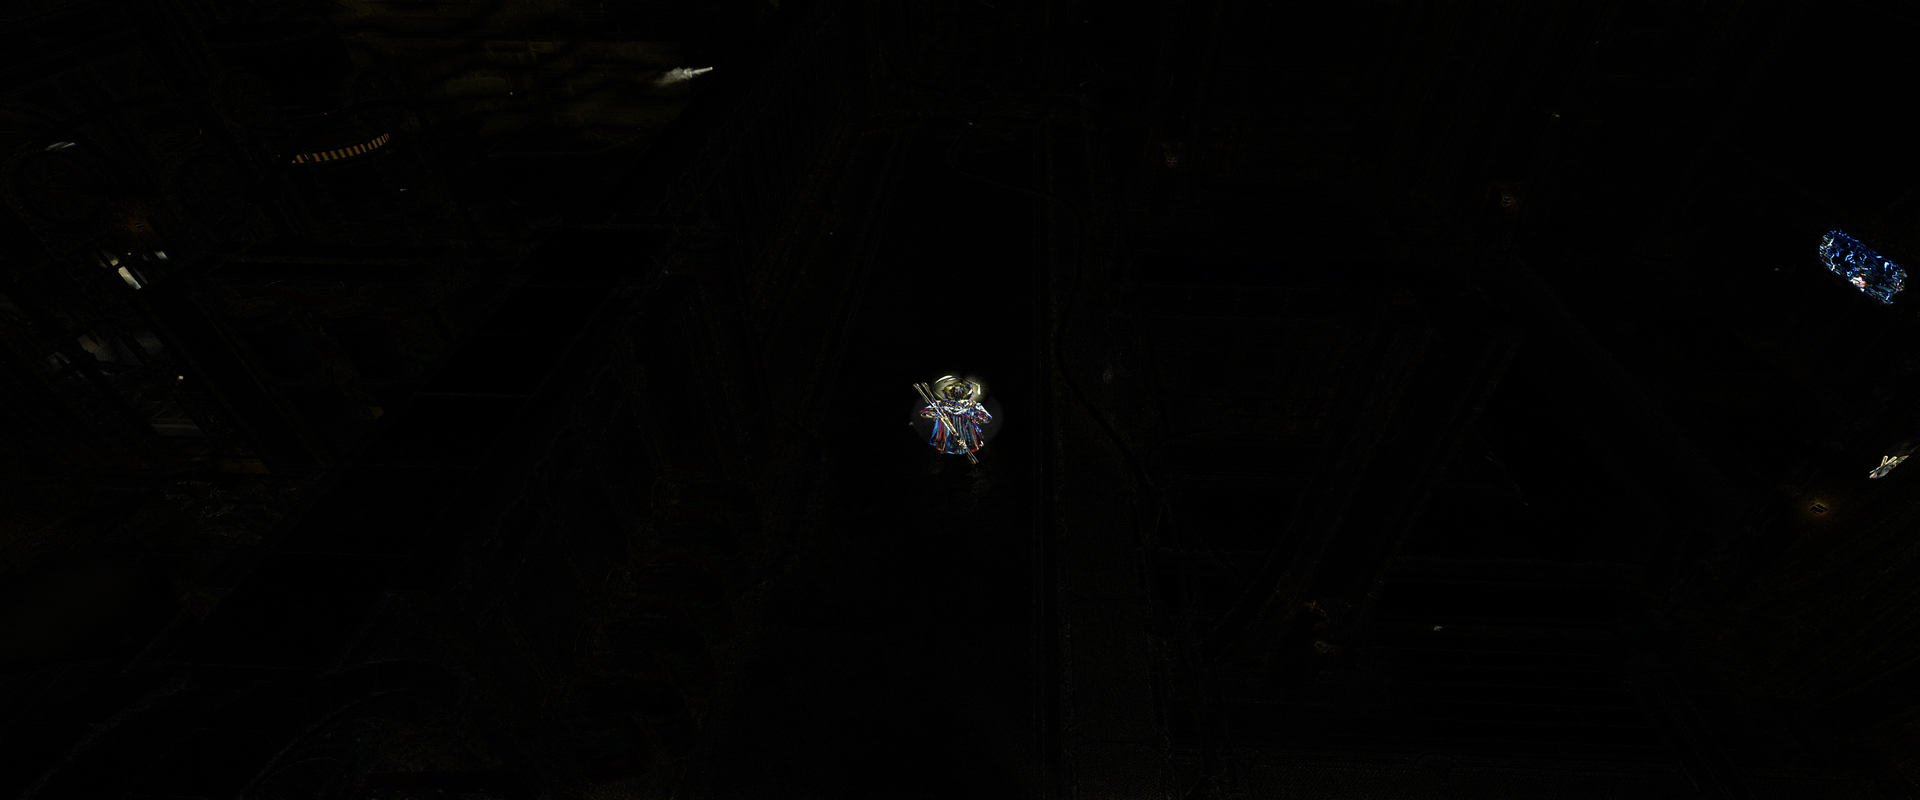
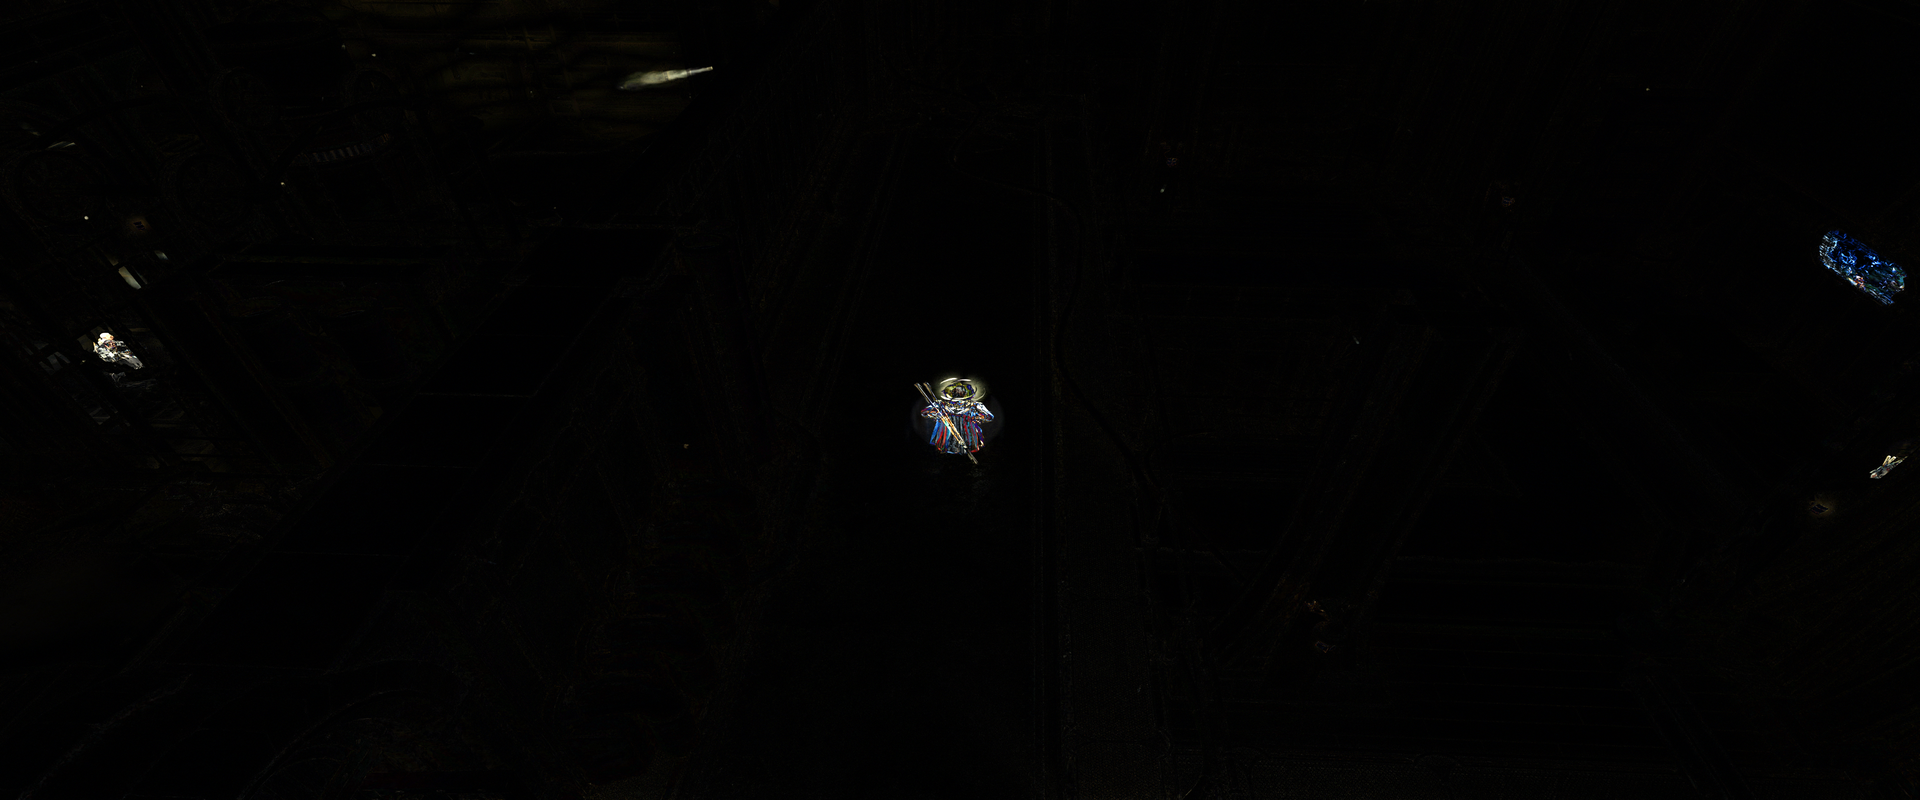
RR before post: replay the game's R11G11B10 stores in order, SSS guide, own output view; final A/B numbers

diff --git a/layer/rrpost.cpp b/layer/rrpost.cpp
@@ -108,7 +108,7 @@ struct Chain {
 
 std::mutex g_mu;
 Chain g_ch;
-Img g_xs, g_xr, g_ac, g_check, g_cbt, g_z, g_sss_before, g_sss;
+Img g_xs, g_xr, g_ac, g_eb, g_check, g_cbt, g_z, g_sss_before, g_sss;
 uint64_t g_sss_before_frame = 0, g_sss_frame = 0;
 uint64_t g_cbt_frame = 0;
 VkDescriptorSetLayout g_dsl = VK_NULL_HANDLE;
@@ -222,21 +222,21 @@ bool img_ensure(DeviceData* dd, Img& g, VkFormat fmt, uint32_t w, uint32_t h, co
 
 bool ensure_layout(DeviceData* dd) {
   if (g_dsl) return true;
-  VkDescriptorSetLayoutBinding b[14] = {};
-  const VkDescriptorType types[14] = {
+  VkDescriptorSetLayoutBinding b[15] = {};
+  const VkDescriptorType types[15] = {
       VK_DESCRIPTOR_TYPE_SAMPLED_IMAGE,  VK_DESCRIPTOR_TYPE_SAMPLED_IMAGE,  VK_DESCRIPTOR_TYPE_SAMPLED_IMAGE,
       VK_DESCRIPTOR_TYPE_SAMPLED_IMAGE,  VK_DESCRIPTOR_TYPE_SAMPLED_IMAGE,  VK_DESCRIPTOR_TYPE_SAMPLER,
       VK_DESCRIPTOR_TYPE_STORAGE_IMAGE,  VK_DESCRIPTOR_TYPE_STORAGE_IMAGE,  VK_DESCRIPTOR_TYPE_STORAGE_IMAGE,
       VK_DESCRIPTOR_TYPE_STORAGE_BUFFER, VK_DESCRIPTOR_TYPE_STORAGE_BUFFER, VK_DESCRIPTOR_TYPE_STORAGE_BUFFER,
-      VK_DESCRIPTOR_TYPE_STORAGE_BUFFER, VK_DESCRIPTOR_TYPE_STORAGE_IMAGE};
-  for (uint32_t i = 0; i < 14; ++i) {
+      VK_DESCRIPTOR_TYPE_STORAGE_BUFFER, VK_DESCRIPTOR_TYPE_STORAGE_IMAGE, VK_DESCRIPTOR_TYPE_STORAGE_IMAGE};
+  for (uint32_t i = 0; i < 15; ++i) {
     b[i].binding = i;
     b[i].descriptorType = types[i];
     b[i].descriptorCount = 1;
     b[i].stageFlags = VK_SHADER_STAGE_COMPUTE_BIT;
   }
   VkDescriptorSetLayoutCreateInfo dci{VK_STRUCTURE_TYPE_DESCRIPTOR_SET_LAYOUT_CREATE_INFO};
-  dci.bindingCount = 14;
+  dci.bindingCount = 15;
   dci.pBindings = b;
   if (dd->vk.CreateDescriptorSetLayout(dd->device, &dci, nullptr, &g_dsl) != VK_SUCCESS) return false;
   VkPushConstantRange pcr{VK_SHADER_STAGE_COMPUTE_BIT, 0, sizeof(Push)};
@@ -248,7 +248,7 @@ bool ensure_layout(DeviceData* dd) {
   if (dd->vk.CreatePipelineLayout(dd->device, &pci, nullptr, &g_pl) != VK_SUCCESS) return false;
   VkDescriptorPoolSize sizes[4] = {{VK_DESCRIPTOR_TYPE_SAMPLED_IMAGE, 5 * kRing},
                                    {VK_DESCRIPTOR_TYPE_SAMPLER, kRing},
-                                   {VK_DESCRIPTOR_TYPE_STORAGE_IMAGE, 4 * kRing},
+                                   {VK_DESCRIPTOR_TYPE_STORAGE_IMAGE, 5 * kRing},
                                    {VK_DESCRIPTOR_TYPE_STORAGE_BUFFER, 4 * kRing}};
   VkDescriptorPoolCreateInfo ppi{VK_STRUCTURE_TYPE_DESCRIPTOR_POOL_CREATE_INFO};
   ppi.maxSets = kRing;
@@ -352,8 +352,8 @@ bool run(DeviceData* dd, VkCommandBuffer cmd, int which, const Binds& b, const P
   VkPipeline pipe = pipeline(dd, g_pipes[which]);
   if (!pipe) return false;
   VkDescriptorSet set = g_sets[g_next_set++ % kRing];
-  VkDescriptorImageInfo ii[12] = {};
-  VkWriteDescriptorSet w[14] = {};
+  VkDescriptorImageInfo ii[13] = {};
+  VkWriteDescriptorSet w[15] = {};
   uint32_t n = 0, k = 0;
   auto img = [&](uint32_t binding, VkDescriptorType t, VkImageView v, VkImageLayout l) {
     if (!v) return;
@@ -378,6 +378,7 @@ bool run(DeviceData* dd, VkCommandBuffer cmd, int which, const Binds& b, const P
   w[n].pImageInfo = &ii[k];
   ++n, ++k;
   if (b.ac) img(6, VK_DESCRIPTOR_TYPE_STORAGE_IMAGE, g_ac.view, VK_IMAGE_LAYOUT_GENERAL);
+  if (b.ac) img(14, VK_DESCRIPTOR_TYPE_STORAGE_IMAGE, g_eb.view, VK_IMAGE_LAYOUT_GENERAL);
   img(7, VK_DESCRIPTOR_TYPE_STORAGE_IMAGE, b.out11, VK_IMAGE_LAYOUT_GENERAL);
   img(8, VK_DESCRIPTOR_TYPE_STORAGE_IMAGE, b.out16, VK_IMAGE_LAYOUT_GENERAL);
   img(13, VK_DESCRIPTOR_TYPE_STORAGE_IMAGE, b.out_r16, VK_IMAGE_LAYOUT_GENERAL);
@@ -514,9 +515,10 @@ void touch(VkCommandBuffer cmd) {
 bool start(DeviceData* dd, VkCommandBuffer cmd, VkImageView x, VkImageLayout xl, uint32_t w, uint32_t h) {
   if (!img_ensure(dd, g_xs, VK_FORMAT_B10G11R11_UFLOAT_PACK32, w, h, "Xs (post input snapshot)") ||
       !img_ensure(dd, g_xr, VK_FORMAT_B10G11R11_UFLOAT_PACK32, w, h, "Xr (RR colour: dither-resolved X)") ||
-      !img_ensure(dd, g_ac, VK_FORMAT_R16G16B16A16_SFLOAT, w, h, "AC (post chain: rgb C, a A)"))
+      !img_ensure(dd, g_ac, VK_FORMAT_R16G16B16A16_SFLOAT, w, h, "AC (post chain: rgb C, a A)") ||
+      !img_ensure(dd, g_eb, VK_FORMAT_R16G16B16A16_SFLOAT, w, h, "EB (post chain: rgb 0.2 bloom, a exposure)"))
     return false;
-  to_general(dd, cmd, {&g_xs, &g_ac});
+  to_general(dd, cmd, {&g_xs, &g_ac, &g_eb});
   Binds b;
   b.in[0] = x;
   b.in_l[0] = xl;
@@ -679,6 +681,8 @@ void on_grade(DeviceData* dd, VkCommandBuffer cmd) {
     b.in_l[0] = VK_IMAGE_LAYOUT_GENERAL;
     b.in[1] = g_ac.view;
     b.in_l[1] = VK_IMAGE_LAYOUT_GENERAL;
+    b.in[2] = g_eb.view;
+    b.in_l[2] = VK_IMAGE_LAYOUT_GENERAL;
     b.lut = g_ch.lut;
     b.lut_l = g_ch.lut_l;
     b.out16 = g_check.view;
@@ -875,16 +879,46 @@ bool rrpost_take(VkCommandBuffer cmd, uint32_t w, uint32_t h, uint32_t ow, uint3
   return true;
 }
 
+// Our own storage view of the game's DLSS output image. The game only hands
+// its view to NGX, which no validation tracks, and may destroy it as soon as its
+// own work is done; ours is destroyed deferred, after our commands ran.
+static std::unordered_map<VkImage, VkImageView> g_out_views;
+static VkImageView out_view(DeviceData* dd, VkImage image, VkFormat fmt) {
+  auto it = g_out_views.find(image);
+  if (it != g_out_views.end()) return it->second;
+  VkImageViewCreateInfo vi{VK_STRUCTURE_TYPE_IMAGE_VIEW_CREATE_INFO};
+  vi.image = image;
+  vi.viewType = VK_IMAGE_VIEW_TYPE_2D;
+  vi.format = fmt;
+  vi.subresourceRange = {VK_IMAGE_ASPECT_COLOR_BIT, 0, 1, 0, 1};
+  VkImageView v = VK_NULL_HANDLE;
+  if (dd->vk.CreateImageView(dd->device, &vi, nullptr, &v) != VK_SUCCESS) return VK_NULL_HANDLE;
+  g_out_views[image] = v;
+  return v;
+}
+
+void rrpost_forget_image(VkImage image) {
+  std::lock_guard<std::mutex> lock(g_mu);
+  auto it = g_out_views.find(image);
+  if (it == g_out_views.end()) return;
+  defer_destroy(BG3_DEFER_IMAGE_VIEW, (uint64_t)it->second);
+  g_out_views.erase(it);
+}
+
 // After the RR evaluate: grade(A * RR + C) into the game's DLSS output image.
-bool rrpost_final(VkCommandBuffer cmd, VkImageView game_out, uint32_t ow, uint32_t oh) {
+bool rrpost_final(VkCommandBuffer cmd, VkImage out_image, VkFormat out_fmt, uint32_t ow, uint32_t oh) {
   std::lock_guard<std::mutex> lock(g_mu);
   DeviceData* dd = device_of(cmd);
-  if (!dd || !game_out) return false;
+  if (!dd || !out_image) return false;
+  VkImageView game_out = out_view(dd, out_image, out_fmt);
+  if (!game_out) return false;
   Binds b;
   b.in[0] = g_z.view;
   b.in_l[0] = VK_IMAGE_LAYOUT_GENERAL;
   b.in[1] = g_ac.view;
   b.in_l[1] = VK_IMAGE_LAYOUT_GENERAL;
+  b.in[2] = g_eb.view;
+  b.in_l[2] = VK_IMAGE_LAYOUT_GENERAL;
   b.lut = g_ch.lut;
   b.lut_l = g_ch.lut_l;
   b.out11 = game_out;
@@ -900,7 +934,7 @@ bool rrpost_final(VkCommandBuffer cmd, VkImageView game_out, uint32_t ow, uint32
 int rrpost_trace_images(VkImage* out, int max) {
   std::lock_guard<std::mutex> lock(g_mu);
   int n = 0;
-  for (const Img* g : {&g_xr, &g_ac, &g_z, &g_check, &g_cbt, &g_sss})
+  for (const Img* g : {&g_xr, &g_ac, &g_z, &g_check, &g_cbt, &g_sss, &g_eb})
     if (g->image && n < max) out[n++] = g->image;
   return n;
 }

diff --git a/scripts/rr_post_compare.py b/scripts/rr_post_compare.py
@@ -86,12 +86,13 @@ def replication(cap_path):
     cap, dumps, frame = load_capture(cap_path)
     game = by_fs(dumps, "0592680bc336dca3")
     rr = tagged(frame, dumps, "rrpost")
-    check = [d for d in rr if d["fmt"] == "RGBA16F" and d["w"] == game[0]["w"]]
+    # rrpost pass slots: Xr, AC, Z, check, CBT, SSS guide, EB (layer/rrpost.cpp)
+    check = [d for d in rr if d["slot"] == 3 and d["fmt"] == "RGBA16F"]
     if not game or not check:
         print("no game grade output or check image in", cap)
         return None
     g = raw(cap, game[0])[..., :3]
-    ours = raw(cap, check[-1])[..., :3]
+    ours = raw(cap, check[0])[..., :3]
     res = {}
     for name, q in (("round", quant_r11g11b10), ("trunc", quant_trunc)):
         o = q(ours)

diff --git a/layer/ngx.cpp b/layer/ngx.cpp
@@ -1341,7 +1341,7 @@ static bool rr_evaluate(DeviceData* dd, VkCommandBuffer cmd, SrFeature& f, NVSDK
     log("[ngx] RR evaluate failed: %s (0x%08x)", result_name(result), unsigned(result));
   if (g_qpool) ts_mark(dd, cmd, ts_slot, 2);
   // The game's post chain after RR, at output resolution, into its DLSS output.
-  if (use_post && result == NVSDK_NGX_Result_Success && !rrpost_final(cmd, out->Resource.ImageViewInfo.ImageView, ow, oh))
+  if (use_post && result == NVSDK_NGX_Result_Success && !rrpost_final(cmd, out->Resource.ImageViewInfo.Image, VkFormat(out->Resource.ImageViewInfo.Format), ow, oh))
     log("[ngx] RR before post: the output-resolution grade could not be recorded");
 
   if (show && result == NVSDK_NGX_Result_Success) {

diff --git a/layer/host.h b/layer/host.h
@@ -305,7 +305,8 @@ struct RrPostInputs {
 void rrpost_pass_end(VkCommandBuffer cmd, const Bg3PassInfo& p, const VkImageLayout* layouts);
 void rrpost_dispatch_pre(VkCommandBuffer cmd, uint64_t cs);
 bool rrpost_take(VkCommandBuffer cmd, uint32_t w, uint32_t h, uint32_t ow, uint32_t oh, RrPostInputs* out);
-bool rrpost_final(VkCommandBuffer cmd, VkImageView game_out, uint32_t ow, uint32_t oh);
+bool rrpost_final(VkCommandBuffer cmd, VkImage out_image, VkFormat out_fmt, uint32_t ow, uint32_t oh);
+void rrpost_forget_image(VkImage image);   // the game destroys an image
 int rrpost_trace_images(VkImage* out, int max);
 float rrpost_pre_exposure();   // lighting s1b13[0] as last read back (0 if unknown)
 void rrpost_on_present();

diff --git a/layer/tracker.cpp b/layer/tracker.cpp
@@ -312,6 +312,7 @@ static VKAPI_ATTR VkResult VKAPI_CALL CreateImage(VkDevice device, const VkImage
 static VKAPI_ATTR void VKAPI_CALL DestroyImage(VkDevice device, VkImage img, const VkAllocationCallbacks* a) {
   sl_note_image_destroyed(img);
   ngx_on_destroy_image(img);  // our views of it go first
+  rrpost_forget_image(img);
   device_of(device)->vk.DestroyImage(device, img, a);
   ngx_forget_image(img);
   std::unique_lock<std::shared_mutex> lock(tracker().mu);

diff --git a/docs/TRACK_A_RR.md b/docs/TRACK_A_RR.md
@@ -371,17 +371,22 @@ of post-processing as possible" and DoF after it.
   far/near blend weights from its CoC images and constants: `A *= (1−w_far)(1−w_near)`),
   `resolve` (before `7401d785`: RR's colour, and `C = U − A·X` with `U` the
   game's own chain value there, so god rays and the blurred DoF layers enter
-  exactly), `exposure` (`A, C *= b0[1]·b1[0]`, the game's buffers bound live),
-  `bloom` (`C += 0.2·bloom` at the game's uv).
+  exactly), `exposure` (`k = b0[1]·b1[0]`, the game's buffers bound live),
+  `bloom` (`B = 0.2·bloom` at the game's uv). k and B live in a second
+  RGBA16F image so the stores can be replayed in order.
 - **After RR**, one output-resolution pass writes the game's DLSS output image:
-  `grade(A·RR + C)`, A and C bilinear from render resolution, the game's grade
-  UBO (4 floats, read per frame, so per-area grades follow) and its 32³ LUT,
-  the grade input truncated to R11G11B10 like the game's (`rr_post_quantise`).
-  The tonemap and UI read that image as before.
+  `grade(((A·RR + C)·k) + B)`, A, C, k and B bilinear from render resolution,
+  the game's grade UBO (4 floats, read per frame, so per-area grades follow)
+  and its 32³ LUT. Each intermediate is truncated to R11G11B10 where the game
+  stores one (`rr_post_quantise`, see below). The tonemap and UI read that
+  image as before.
 - **Guides added:** colour before transparency (the compose output, copied at
   the compose pass end, same format as the colour; `rr_cbt`) and the
-  screen-space SSS guide (below; `rr_sss`). The DoF guide is not needed: DoF now
-  runs after RR (guide 3.4.13, "can be omitted").
+  screen-space SSS guide (`rr_sss`): `lum(after − before·albedo)` of the SSS
+  blur (`6f535075`/`d1669194`; the skin pixels are lit with diffuse colour 1 and
+  the blur multiplies the albedo back in), 0 where the stencil-culled blur did
+  not touch the pixel. The DoF guide is not needed: DoF now runs after RR
+  (guide 3.4.13, "can be omitted").
 - **Fallback.** Anything the chain does not model breaks it for that frame and
   RR gets the game's graded colour, as before (`[rrpost] post chain not
   followed`, then `[ngx] upscaler ...`; a switch resets RR's history once). The
@@ -391,44 +396,59 @@ of post-processing as possible" and DoF after it.
   Goblin Camp cinematic state with chromatic aberration `b9f5a8ab`, a tint
   vignette `3b556695` (mask `abfdaa7e`) and a 3D overlay `a1e30a20`.
 
-**Replication check.** `rr_post_check=1` (and every trace) also evaluates
-`grade(A·Xr + C)` at render resolution, i.e. our reconstruction of the game's
-own DLSS input from the snapshot, and `scripts/rr_post_compare.py` compares it
-with the game's grade output of the same frame (`dump_raw=1`):
+**Replication check.** `rr_post_check=1` (and every trace) also evaluates the
+same chain on RR's own input `Xr` at render resolution, i.e. our reconstruction
+of the game's DLSS input, and `scripts/rr_post_compare.py` compares it with the
+game's grade output of the same frame (`dump_raw=1`):
 
-| Scene | Frame | Identical texels | Within 1 R11G11B10 ULP | Notes |
+| Scene | Frame | k | Identical texels | Within 1 R11G11B10 ULP |
 |---|---|---|---|---|
-| Foundry (god rays pass, no DoF) | `captures/20261026-152537`, `-152554` | **100.00%** | 100.00% | bit-exact |
-| Goblin Camp dialogue (DoF) | see "Runs" below | | | |
+| Foundry (god-ray pass, no DoF) | `captures/20261026-162517`, `-162536` | 1.0048 | **100.00%** | 100.00% |
+| Goblin Camp (no DoF in the traced frame) | `captures/20261026-162210` | 0.997 | **100.00%** | 100.00% |
 
-Before the R11G11B10 truncation of the grade input was added, the foundry was
-97.4% identical and 100% within 1 ULP, and a DoF frame was uniformly 1.4% (red,
-green) and 2.9% (blue) brighter than the game. That is the game's own chain of
-R11G11B10 stores, which truncate (the GPU rounds toward zero, checked against
-round-to-nearest): each step whose result is not already representable loses
-half a ULP on average. Our chain keeps fp16 between steps, so only the last
-truncation is reproduced.
+The store order matters. The GPU truncates R11G11B10 stores (checked against
+round-to-nearest), and the game stores after every step: with k slightly below
+1 (Goblin Camp's steady state) the exposure store alone drops a whole ULP, so
+the game's image is 0.65% (red, green) and 1.4% (blue) darker than an fp16
+chain. Without the replayed stores the foundry was 97.4% identical, Goblin Camp
+74%, and a DoF dialogue frame (earlier build) was within 1 ULP on 87-98% of the
+texels with the same uniform offset. **Not verified with the final build: a DoF
+frame** (the traced Goblin Camp frame had no DoF; the DoF weights were checked
+only on the earlier build, where the residual error was the uniform store
+offset, independent of the DoF weight).
 
-**A/B against the old path** (foundry, static, the same run toggled live with
-`scripts/live_phases.py`; tonemapped HDR10 frames compared in PQ code values):
+**A/B against the old path** (foundry, static, one run toggled live with
+`scripts/live_phases.py`: new, old, new; tonemapped HDR10 frames compared in PQ
+code values):
 
 | Pair | mean abs delta (10-bit PQ codes) | px > 4 codes | px > 16 codes | mean luminance |
 |---|---|---|---|---|
-| new vs old (`-152554` vs `-152546`) | 1.75 | 11.5% | 0.65% | −0.79% |
-| new vs new, 17 s apart (`-152537` vs `-152554`) | 1.54 | 9.4% | 0.69% | +0.19% |
+| new vs old (`-162536` vs `-162527`) | 1.79 | 11.4% | 0.71% | −0.79% |
+| new vs new, 19 s apart (`-162517` vs `-162536`) | 1.57 | 9.5% | 0.74% | −0.03% |
 
 - Almost all of the difference is the animated character, a flickering sign and
   small lights (`img/rrpost_foundry_diff_x4.png`); the 1:1 crops
   (`img/rrpost_foundry_crops.png`, top new, bottom old) show no visible change
   in static content.
-- The new-vs-old difference is barely above the frame-to-frame floor of the
-  same mode. In a static, converged frame RR's temporal accumulation hides most
-  of what a non-linear input costs; the expected gains are in motion, in dark
-  1-spp areas and in DoF scenes, where the old path also fed RR the blur. That
-  is **not** measured yet (no motion metric; see "Not verified").
-- The mean luminance shift (−0.8%, ≈ 0.4 PQ codes) is within the quantisation
-  difference of the two paths (the old path stores the graded image and RR's
-  output in R11G11B10 twice after the grade).
+- **The luminance shift is the expected bias removal, not a replication error**
+  (the replication is bit-exact). Sorting the static pixels (|delta| < 16 codes)
+  by the local noise of RR's input (|x − 3x3 mean| / mean):
+
+  | input noise quantile | 0-50% | 50-80% | 80-95% | 95-100% |
+  |---|---|---|---|---|
+  | new vs old | −0.49% | −0.67% | −1.01% | −1.54% |
+  | new vs new | +0.02% | −0.05% | −0.10% | −0.06% |
+
+  The old path was brighter where RR's input was noisier: RR averaged graded
+  values, and the mean of a convex-ish grade of a noisy signal is above the
+  grade of its mean (Jensen). The new path no longer has that bias. Part of the
+  −0.5% in the cleanest pixels is the same effect at lower noise (the metric
+  also counts texture detail as "noise").
+- Apart from that, the new-vs-old difference is barely above the frame-to-frame
+  floor of the same mode: in a static, converged frame RR's temporal
+  accumulation hides most of the rest. The gains expected in motion, in dark
+  1-spp areas and in DoF scenes (where the old path fed RR the blur) are **not
+  measured** (no motion metric yet).
 - High-frequency energy (mean |Laplacian| in PQ codes) is 15.8 new vs 15.6 old:
   no loss of detail.
 
@@ -440,19 +460,22 @@ truncation is reproduced.
 - their layout is `[0] = 0.8333/2^EV`, `[1] = 1.2·2^EV`, `[2] = EV` (e.g. EV 14.18,
   `[0] = 4.50e-5` in the foundry);
 - so the lighting is pre-exposed by `0.8333/2^EV(previous)`, and `2cdd9f08`
-  multiplies by `b0[1]·b1[0] = 2^(EV_prev − EV_new)`, a re-exposure that is
-  1.000-1.005 in steady state.
+  multiplies by `b0[1]·b1[0] = 2^(EV_prev − EV_new)`, a re-exposure: 1.0048 in
+  the foundry, 0.997 in Goblin Camp, in steady state.
 
 RR's input (both the old graded colour and the new `X`) is therefore already
 eye-adapted. The RR guide 3.7 says the exposure parameters (DLSS guide 3.9,
 which includes the pre-exposure factor) are not supported by RR, so
 `DLSS.Pre.Exposure` stays the game's 1. `rr_pre_exposure=1` passes
-`s1b13[0]` (read back a frame or two late) for an A/B.
+`s1b13[0]` (read back a frame or two late) for an A/B; **that A/B has not been
+run**.
 
-**Cost** (RTX 5090, 2560x1067 → 3840x1600, GPU timestamps, `[rrpost] gpu`):
-render-resolution steps 0.088-0.117 ms per frame, output-resolution grade
-0.056-0.067 ms, the CBT copy unmeasured (one 11 MB image copy). About
-**+0.15-0.18 ms** in total. The RR evaluate itself is unchanged (2.5-2.7 ms).
+**Cost** (RTX 5090, 2560x1067 → 3840x1600, GPU timestamps, `[rrpost] gpu`,
+foundry): render-resolution steps (snapshot, DoF weights, resolve, exposure,
+bloom, SSS before/guide) 0.14-0.17 ms per frame, the output-resolution grade
+0.06 ms, the CBT copy unmeasured (one 11 MB image copy). About **+0.2 ms** in
+total (0.15 ms before the SSS guide and the store replay were added). The RR
+evaluate itself is unchanged (2.5-2.7 ms).
 
 ### Preset and snippet
 
@@ -464,7 +487,12 @@ A/B on 310.9.16 (foundry, static, separate runs `-153811` preset 0 and
 `-153033` preset 6): evaluate 2.50-2.56 ms vs 2.50-2.55 ms, and the frames differ
 by 1.15 PQ codes on average (median 0), below the same-mode floor above. The
 default on 310.9.16 is F, as its header says ("Default model RR2"). `rr_preset=6`
-is pinned so an OTA snippet cannot change the model silently.
+is pinned so an OTA snippet cannot change the model silently. 310.7.129 (the
+game's snippet, `fg=0`) also accepts preset 6 (creation Success, Goblin Camp
+run, evaluate 2.6-2.7 ms); whether that older snippet really runs RR2 or falls
+back to its default is **not known** (NGX does not report the model). Note that
+with `fg=0` NGX loads the game's snippet, so the headless test runs and the
+player's `fg=2` setup can run different RR versions.
 
 ## Known limits and next steps
 
